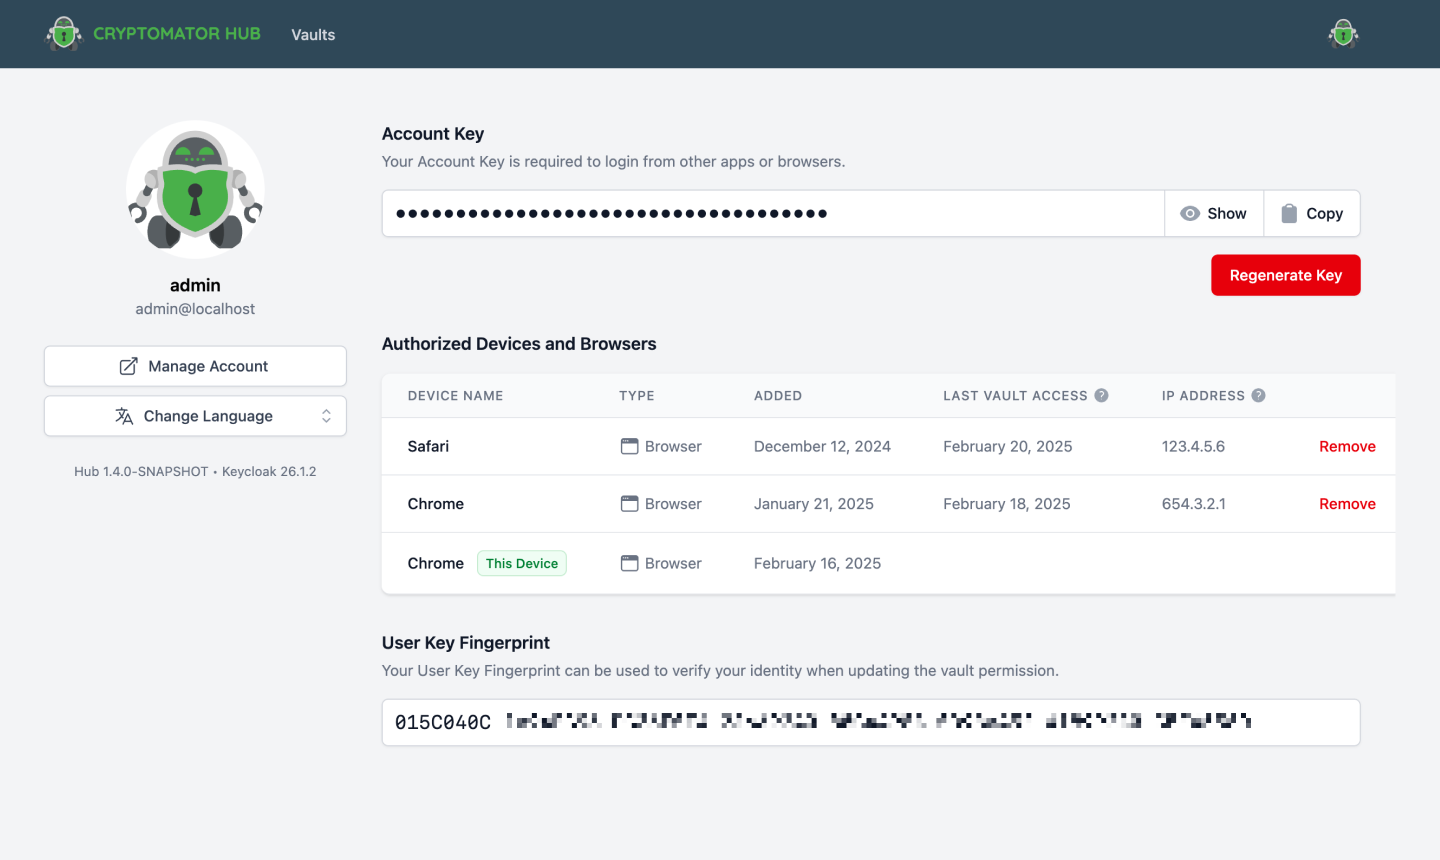
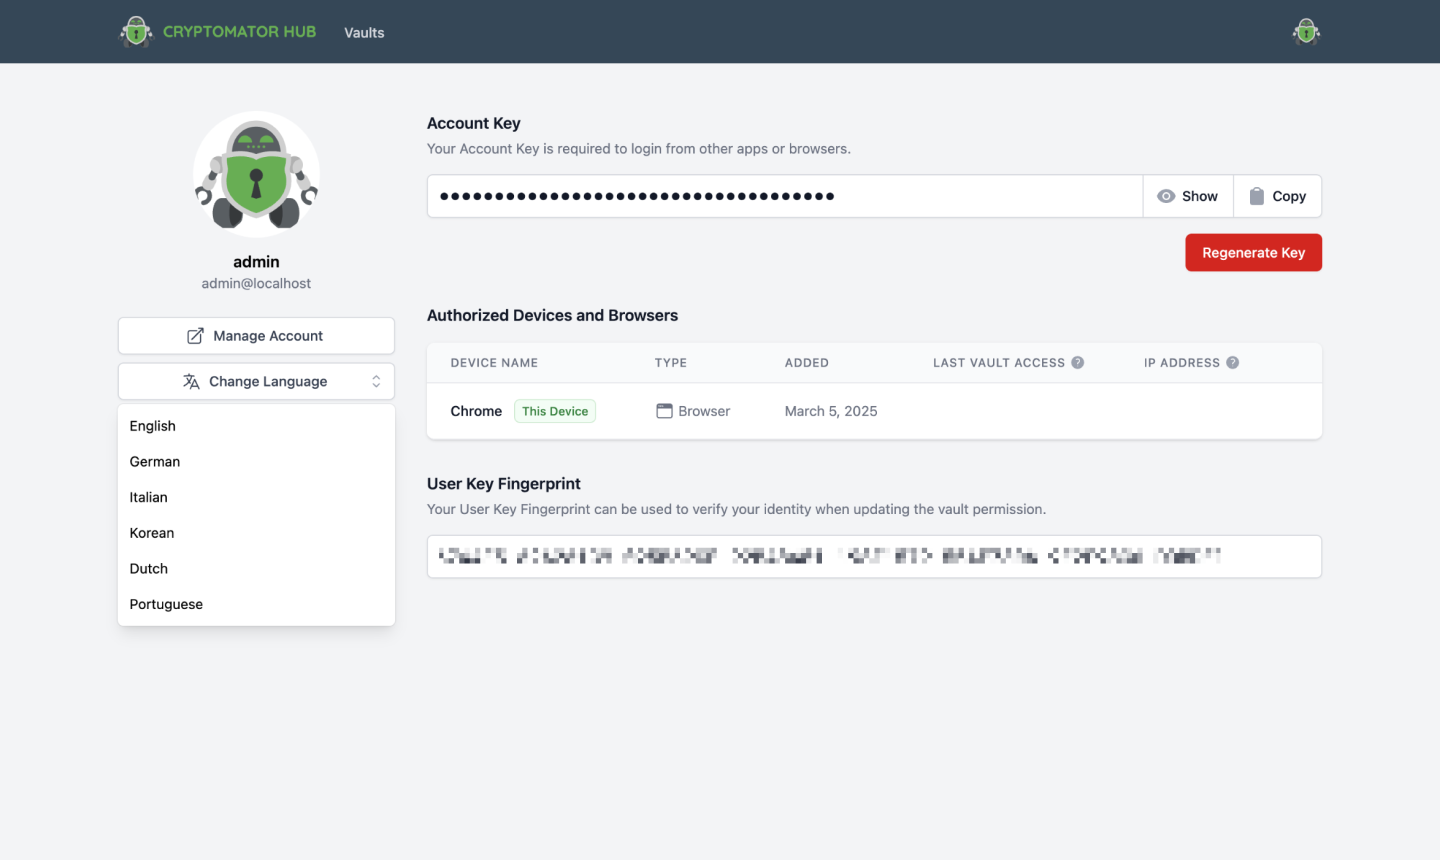
Small refinements and content updates

diff --git a/source/hub/admin.rst b/source/hub/admin.rst
@@ -1,0 +1,162 @@
+.. _hub/admin:
+
+Admin
+=====
+
+
+.. _hub/admin/license:
+
+License
+-------
+
+Every Cryptomator Hub instance requires a license.
+The license is bound to the instance and cannot be transferred to another instance.
+Every license has a number of seats and a validity period.
+As an Hub administrator, you can view license information in the administration area.
+
+.. image:: ../img/hub/admin-area-license.png
+    :alt: Administration area
+
+
+.. _hub/admin/seat:
+
+What is a Seat?
+^^^^^^^^^^^^^^^
+
+A regular license contains a fixed number of *seats*.
+A *seat* is taken for every user, which is assigned to at least one, not-archived vault.
+Note that:
+
+* If a user is not assigned to any vault, it *does not occupy* a seat.
+* If a user is assigned to multiple vaults, it only *occupies one* seat.
+* If :ref:`a user is created or imported to Hub <hub/user-group-management>`, it does not occupy a seat.
+
+.. note:: Enterprise licenses can have an unlimited number of seats. Visit `cryptomator.org <https://cryptomator.org/hub/>`_ for more information.
+
+
+.. _hub/admin/community-license:
+
+Community License
+^^^^^^^^^^^^^^^^^
+
+When you deploy Cryptomator Hub by yourself, it comes with a community license with life-long validity and 5 seats.
+
+
+.. _hub/admin/buy-license:
+
+Updating your License
+^^^^^^^^^^^^^^^^^^^^^
+
+If the community license is not sufficient for your needs, you can upgrade it to a paid license.
+You can also upgrade an already existing, paid license.
+To do so, click on the button in the lower right corner of the administration area.
+It will redirect you to the Cryptomator Hub license store.
+After the purchase, you will be automatically redirected back to your Hub instance.
+
+
+.. _hub/admin/audit-logs:
+
+Audit Logs
+----------
+
+The Audit Logs provide an overview of security-related events within Cryptomator Hub.
+These logs allow administrators to track important account and vault-related actions.
+
+.. note::
+    Audit Logs are not available with a Community License.
+
+Event Types
+^^^^^^^^^^^
+
+The following events are logged:
+
+Device
+"""""""
+
+- **Register Device** - A user :ref:`registered a new device <hub/access-vault/unlocking-a-vault/add-device>`. 
+- **Remove Device** – A user :ref:`removed a device <hub/your-account/profile/authorized-devices>`.
+
+Web of Trust
+""""""""""""
+
+- **Signed Identity** – A user :ref:`signed the identity of another user <hub/vault-management/wot>`.
+- **Update Wot Setting** – A user updated :ref:`Web-of-Trust settings<hub/vault-management/wot>`.
+
+Vault
+""""""
+
+- **Add Vault Member** – A vault owner :ref:`added a member to a vault <hub/vault-management/add-user>`. 
+- **Create Vault** – A user :ref:`created a vault <hub/vault-management/create-vault>`.
+- **Grant Vault Access** – A user :ref:`derived the vault key for the new member <hub/vault-management/updating-permission>`.
+- **Retrieve Vault Key** – A user retrieved a vault key.
+- **Remove Vault Member** – A vault owner removed a member from a vault.
+- **Update Vault Member** – A vault owner :ref:`changed a member’s role <hub/vault-management/change-ownership>`. 
+- **Update Vault** – A vault owner :ref:`updated the vault metadata <hub/vault-management/edit-vault-metadata>`.
+
+Account
+""""""""
+
+- **Account Key Changed** – A user :ref:`re-generated the account key <hub/your-account/profile/regenerate-account-key>`. 
+- **Reset User Account** – A user :ref:`reset its account <hub/your-account/reset-account>`.
+- **User Keys Change** – A user changed its keys.
+
+Legacy
+""""""
+
+- **Claim Vault Ownership** – A user claimed vault ownership.
+
+Audit Log Table View
+^^^^^^^^^^^^^^^^^^^^
+
+The logs are displayed in a structured table containing the following columns:
+
+- **Timestamp** – The exact time of the event.
+- **Event** – The type of event that occurred.
+- **Details** – Additional information about the event.
+
+.. image:: ../img/hub/auditlogs-overview.png
+    :alt: Audit Logs Table View
+
+Filtering Audit Logs
+^^^^^^^^^^^^^^^^^^^^
+
+To refine the displayed logs, a filtering function is available:
+
+.. image:: ../img/hub/auditlogs-filter.png
+    :alt: Audit Log Filtering Options
+
+- **Date Range Filter**: Allows filtering logs between two specific dates.
+- **Event Type Filter**: A multi-select dropdown enables filtering by event type.
+
+.. image:: ../img/hub/auditlogs-filter-events.png
+    :alt: Audit Log Filtering Options
+
+
+.. _hub/admin/wot:
+
+Web of Trust
+------------
+
+The Web of Trust (WoT) feature in Cryptomator Hub helps users verify each other's identity by signing the :ref:`User Key Pair <security/hub/keys/user-keys>` with their private keys using ECDSA.
+First, the trusting user needs to verify the trustee by entering the first characters of the trustee's public key fingerprint. Once signed, the proof is uploaded to Hub, where others can check its authenticity.
+
+WoT also supports transitive trust, meaning if Alice trusts Bob, and Bob trusts Charlie, then Alice implicitly trusts Charlie. This forms a trust chain, allowing users to establish indirect trust relationships.
+
+.. image:: ../img/hub/wot-admin.png
+    :alt: Audit Log Filtering Options
+
+The maximum depth of such chains can be configured using the **Maximum WoT Depth** property:
+
+* The default value is 3 ("Great-Grandchild")
+* The maximum value is 9
+* The minimum value, 0, means no trust chain is allowed, only direct trust relationships are considered.
+
+With the **Fingerprint Verification Preciseness** property, the minimum length of the entered public key fingerprint can be configured:
+
+* The default value is 2
+* The minimum value, 0, means the fingerprint of the trustee is fully shown without any input needed.
+
+.. note::
+
+    If a user resets their account, their :ref:`User Key Pair <security/hub/keys/user-keys>` is regenerated, invalidating all previously established trust relationships regarding this user.  
+    Additionally, any existing trust chains that included the user will be broken, requiring re-verification to restore trust.

diff --git a/source/security/hub.rst b/source/security/hub.rst
@@ -60,28 +60,3 @@ the :ref:`User Key <security/hub/keys/user-keys>`. The Account Key acts as a pas
 
 
 .. _security/hub/wot:
-
-Web of Trust
-------------
-
-The Web of Trust (WoT) feature in Cryptomator Hub helps users verify each other's identity by signing the :ref:`User Key Pair <security/hub/keys/user-keys>` with their private keys using ECDSA.
-First the trusting user needs to verify the trustee by entering the first characters of the trustee's public key fingerprint. Once signed, the proof is uploaded to Hub, where others can check its authenticity e.g. during vault sharing.
-
-WoT also supports transitive trust, meaning if alice trusts bob, and bob trusts charlie, then alice implicitly trusts charlie. This forms a trust chain, allowing users to establish indirect trust relationships.
-
-The maximum depth of such chains can be configured using the ``wot_max_depth`` property, which limits how far trust can extend within Hub:
-
-* The default value is 3 ("Great-Grandchild")
-* The maximum value is 9
-* The minimum value, 0, means no trust chain is allowed, only direct trust relationships are considered
-
-With the ``wot_id_verify_len`` property, the minimum length of to be entered public key fingerprint can be configured:
-
-* The default value is 2
-* The minimum value, 0, means the fingerprint of the trustee is fully shown wihtout any input needed
-
-.. note::
-
-    If a user resets their account, their User Key Pair is regenerated, invalidating all previously established trust relationships regarding this user. As a result, the user must be re-verified by everyone who previously trusted them.
-    Additionally, any existing trust chains that included the user will be broken, requiring re-verification to restore trust and re-establish transitive trust relationships.
-

diff --git a/source/hub/your-account.rst b/source/hub/your-account.rst
@@ -59,6 +59,20 @@ You can open it by clicking on your profile icon in the top right corner and sel
     :alt: Your account in Cryptomator Hub
 
 
+.. _hub/your-account/profile/change-language:
+
+Change Language
+^^^^^^^^^^^^^^^
+
+You can change the language of Cryptomator Hub to match your preference.  
+The language selection is available in the profile settings.
+
+Is your preferred language not available yet?  
+We are continuously working on adding more languages.  
+If you're interested, you can contribute translations via Crowdin:  
+`Cryptomator Hub on Crowdin <https://crowdin.com/project/cryptomator>`_.
+
+
 .. _hub/your-account/profile/regenerate-account-key:
 
 Regenerate Account Key

diff --git a/source/hub/vault-management.rst b/source/hub/vault-management.rst
@@ -206,7 +206,7 @@ The verification process is logged in the audit log with event type ``Signed Ide
 
 ``signature still valid`` means that the ``identiy`` has still the same key. If the user account gets reset after verification, this message changes to ``was valid; signed key changed by now`` and the user needs to get verified again.
 
-You can read more details about Web of Trust in the :ref:`Security section of Hub <security/hub/wot>`.
+You can read more details about Web of Trust and how to configure its settings in the :ref:`Admin section of Hub <hub/admin/wot>`.
 
 .. _hub/vault-management/import-vault:
 

diff --git a/source/index.rst b/source/index.rst
@@ -61,13 +61,12 @@ If you are interested in the security of Cryptomator, have a look at our :ref:`s
 
    hub/introduction.rst
    hub/deployment.rst
-   hub/license.rst
    hub/user-group-management.rst
    hub/your-account.rst
    hub/vault-management.rst
    hub/access-vault.rst
    hub/vault-recovery.rst
-   hub/audit-logs.rst
+   hub/admin.rst
 
 .. toctree::
    :hidden:

diff --git a/source/hub/introduction.rst b/source/hub/introduction.rst
@@ -21,7 +21,7 @@ If you are…
 …an **administrator**:
 
 * :ref:`User & Group management <hub/user-group-management>` - how to manage users and groups.
-* :ref:`License <hub/license>` - how to manage your Hub license.
+* :ref:`License <hub/admin>` - how to manage your Hub license.
 * :ref:`Deployment <hub/deployment>` - how to deploy Cryptomator Hub.
 
 …a **user**:
